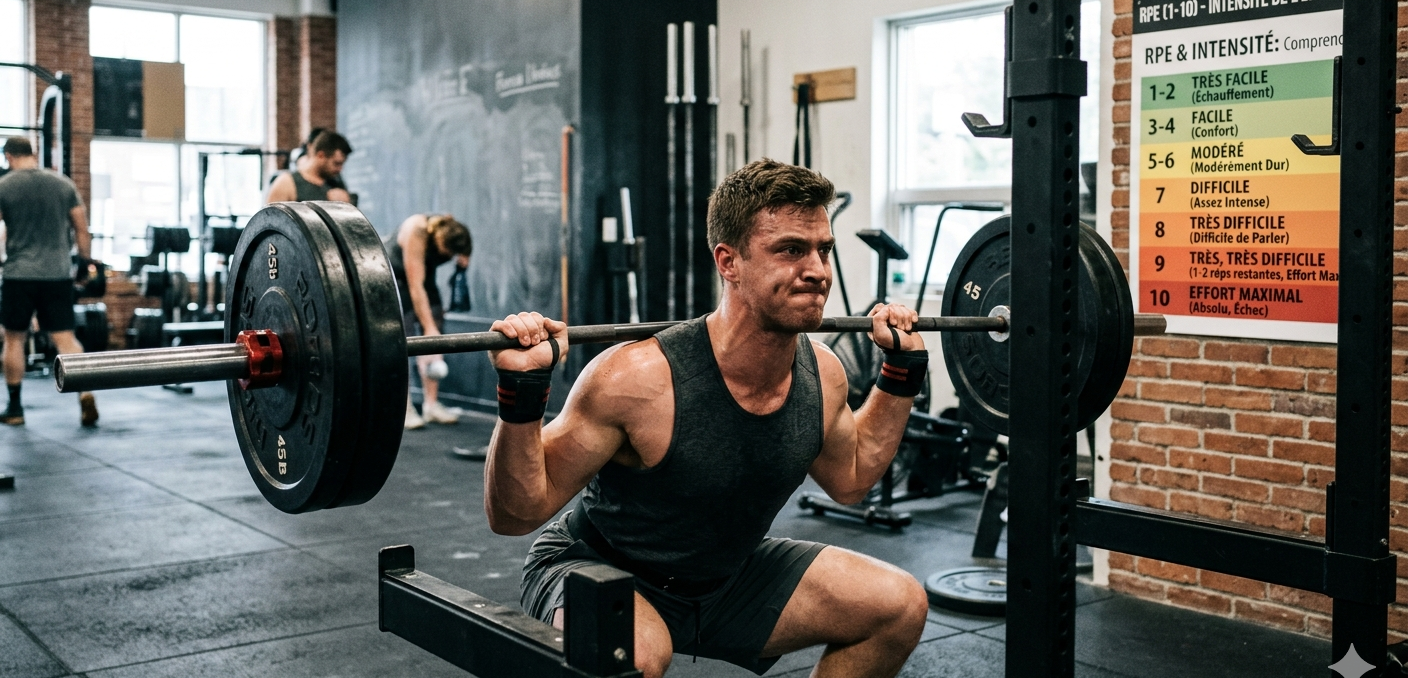
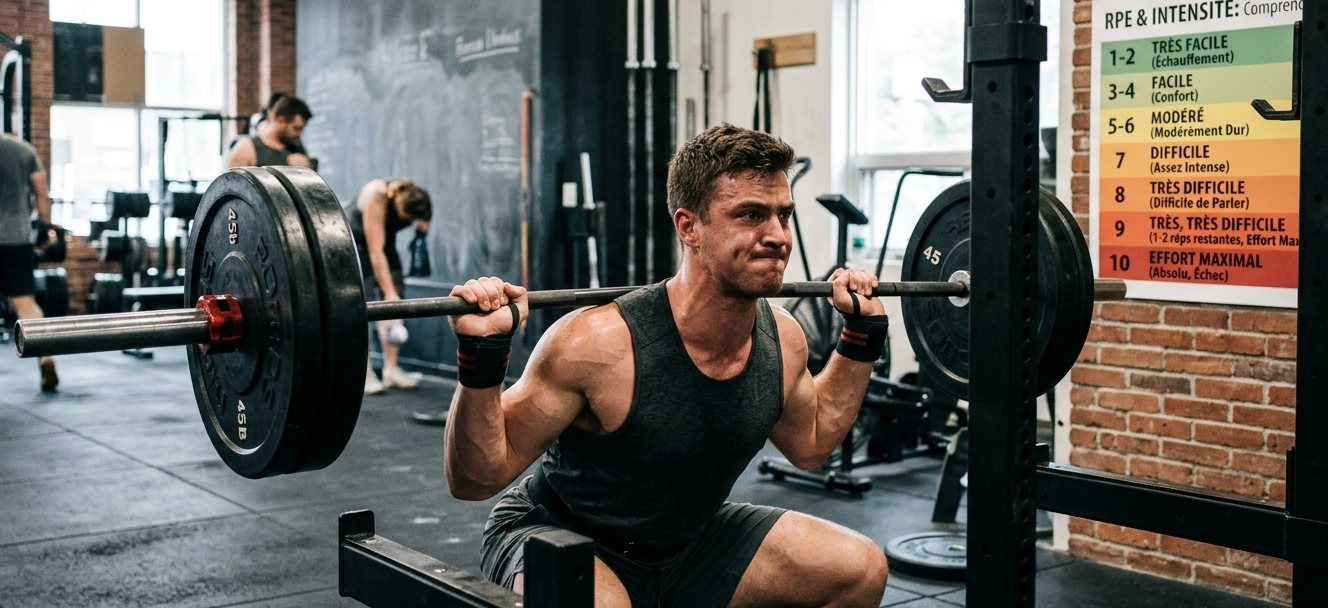
Add nutrition + periodisation guide images, fix watermark crop on all images

diff --git a/src/content/guides/de/periodisierung-grundlagen.md b/src/content/guides/de/periodisierung-grundlagen.md
@@ -4,6 +4,7 @@ description: "Verstehen Sie die Grundlagen der Periodisierung: lineare und undul
 date: "2026-03-07"
 readTime: "14 Min. Lesezeit"
 tag: "Fortgeschritten"
+image: "/assets/guides/periodisation.png"
 lang: "de"
 slug: "periodisierung-grundlagen"
 canonical: "https://aivancepro.fr/de/ratgeber/periodisierung-grundlagen/"

diff --git a/src/content/guides/de/ernaehrung-training.md b/src/content/guides/de/ernaehrung-training.md
@@ -4,6 +4,7 @@ description: "Der vollständige Ratgeber zu Ernährung und Training: Kalorienbed
 date: "2026-03-07"
 readTime: "18 Min. Lesezeit"
 tag: "Ernährung"
+image: "/assets/guides/nutrition-musculation.png"
 lang: "de"
 slug: "ernaehrung-training"
 canonical: "https://aivancepro.fr/de/ratgeber/ernaehrung-training/"

diff --git a/src/content/guides/fr/nutrition-musculation.md b/src/content/guides/fr/nutrition-musculation.md
@@ -4,6 +4,7 @@ description: "Calories, protéines, glucides, lipides et timing des repas : le g
 date: "2026-03-07"
 readTime: "18 min de lecture"
 tag: "Nutrition"
+image: "/assets/guides/nutrition-musculation.png"
 lang: "fr"
 slug: "nutrition-musculation"
 canonical: "https://aivancepro.fr/guides/nutrition-musculation/"

diff --git a/src/content/guides/en/nutrition-training.md b/src/content/guides/en/nutrition-training.md
@@ -4,6 +4,7 @@ description: "Complete guide to nutrition for strength training. Calories, macro
 date: "2026-03-07"
 readTime: "18 min read"
 tag: "Nutrition"
+image: "/assets/guides/nutrition-musculation.png"
 lang: "en"
 slug: "nutrition-training"
 canonical: "https://aivancepro.fr/en/guides/nutrition-training/"

diff --git a/src/content/guides/en/periodization-basics.md b/src/content/guides/en/periodization-basics.md
@@ -4,6 +4,7 @@ description: "Guide to training periodization. Linear vs undulating periodizatio
 date: "2026-03-07"
 readTime: "14 min read"
 tag: "Advanced"
+image: "/assets/guides/periodisation.png"
 lang: "en"
 slug: "periodization-basics"
 canonical: "https://aivancepro.fr/en/guides/periodization-basics/"

diff --git a/src/content/guides/fr/periodisation.md b/src/content/guides/fr/periodisation.md
@@ -4,6 +4,7 @@ description: "Comprendre la périodisation en musculation : linéaire, ondulée,
 date: "2026-03-07"
 readTime: "14 min de lecture"
 tag: "Avancé"
+image: "/assets/guides/periodisation.png"
 lang: "fr"
 slug: "periodisation"
 canonical: "https://aivancepro.fr/guides/periodisation/"
